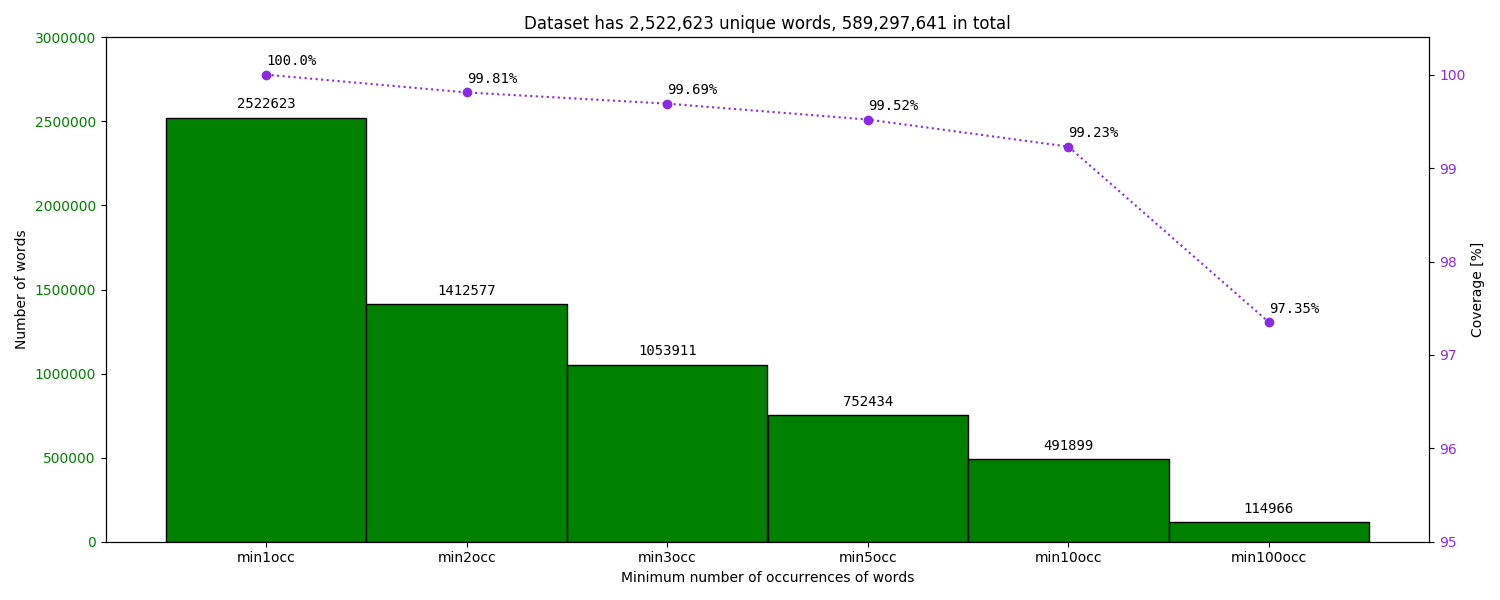
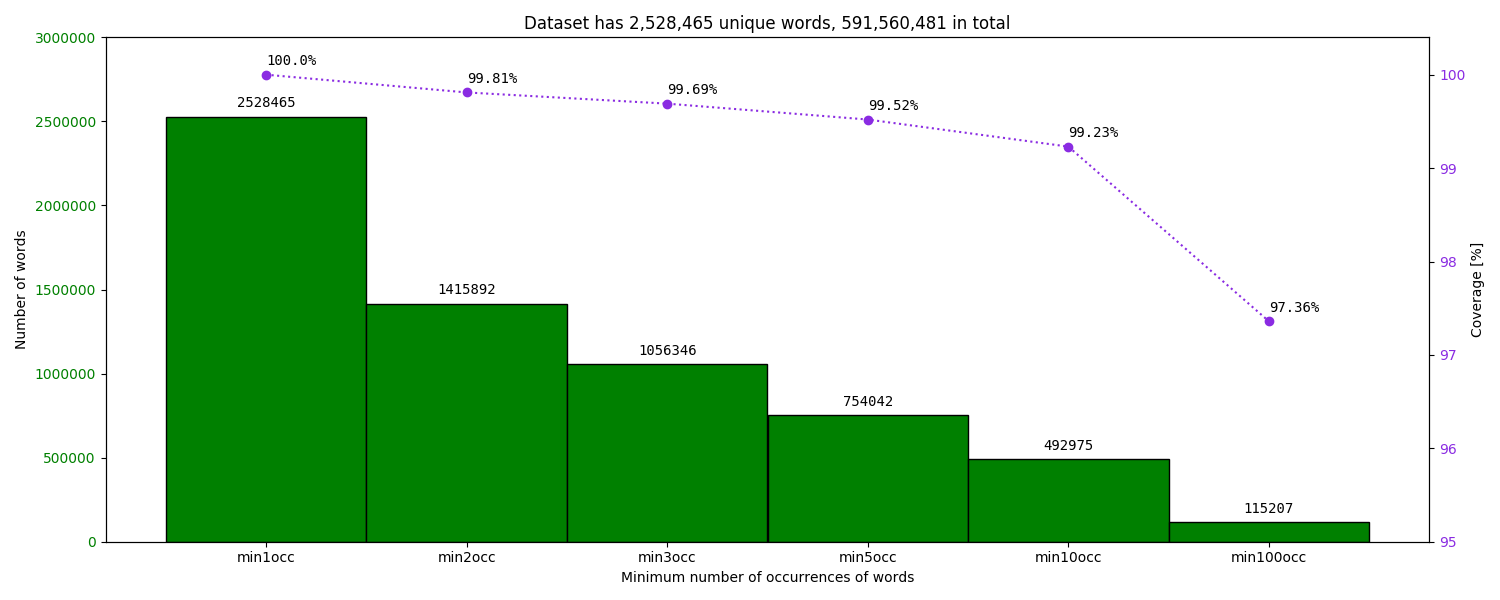
Update README
Make sure the entire workflow runs smoothly

diff --git a/README.md b/README.md
@@ -188,12 +188,12 @@ define_char_vocabulary:
 Output
 
 ```
-INFO [2018-04-10 11:50:58,460] [ccquery] Executing download action
-INFO [2018-04-10 11:50:58,461] [ccquery.preprocessing.wiki_extraction] Download wikipedia dump
-INFO [2018-04-10 12:22:37,021] [ccquery] Executing decompress action
-INFO [2018-04-10 12:22:37,022] [ccquery.preprocessing.wiki_extraction] Decompress wikipedia dump
-INFO [2018-04-10 12:33:29,653] [ccquery] Executing extract action
-INFO [2018-04-10 12:33:29,653] [ccquery.preprocessing.wiki_extraction] Extract plain text from Wikipedia by executing the command:
+INFO [2018-04-27 11:01:12,483] [ccquery] Executing download action
+INFO [2018-04-27 11:01:12,483] [ccquery.preprocessing.wiki_extraction] Download wikipedia dump
+INFO [2018-04-27 11:34:33,892] [ccquery] Executing decompress action
+INFO [2018-04-27 11:34:33,892] [ccquery.preprocessing.wiki_extraction] Decompress wikipedia dump
+INFO [2018-04-27 11:45:22,892] [ccquery] Executing extract action
+INFO [2018-04-27 11:45:22,892] [ccquery.preprocessing.wiki_extraction] Extract plain text from Wikipedia by executing the command:
     WikiExtractor.py \
         frwiki-latest-pages-articles.xml \
         --quiet \
@@ -204,24 +204,24 @@ INFO [2018-04-10 12:33:29,653] [ccquery.preprocessing.wiki_extraction] Extract p
         --filter_disambig_pages \
         --min_text_length 50 \
         -o - > frwiki-latest-pages-articles.jsonl
-INFO [2018-04-10 14:31:33,687] [ccquery] Executing preprocess action
-INFO [2018-04-10 14:31:33,687] [ccquery.preprocessing.wiki_extraction] Extract clean sentences
-INFO [2018-04-10 17:01:10,611] [ccquery] Executing plot_word_occurrences action
-INFO [2018-04-10 17:06:48,838] [ccquery.preprocessing.vocabulary] Read 2,522,623 words with 589,297,641 occurrences
-INFO [2018-04-10 17:06:48,838] [ccquery.preprocessing.vocabulary] Save histogram on word occurrences
-INFO [2018-04-10 17:06:51,791] [ccquery] Executing define_word_vocabulary action
-INFO [2018-04-10 17:06:54,006] [ccquery.preprocessing.vocabulary] Saved
-    500,000 words out of 2,522,623
-    (19.82% unique words, 99.24% coverage of word occurrences)
-INFO [2018-04-10 17:06:54,089] [ccquery.preprocessing.vocabulary] Save word counts in json file
-INFO [2018-04-10 17:06:56,272] [ccquery.preprocessing.vocabulary] Save words in text file
-INFO [2018-04-10 17:06:57,198] [ccquery] Executing plot_char_occurrences action
-INFO [2018-04-10 17:23:13,536] [ccquery.preprocessing.vocabulary] Read 641 chars with 3,400,942,936 occurrences
-INFO [2018-04-10 17:23:13,536] [ccquery.preprocessing.vocabulary] Save histogram on char occurrences
-INFO [2018-04-10 17:23:13,845] [ccquery] Executing define_char_vocabulary action
-INFO [2018-04-10 17:23:13,845] [ccquery.preprocessing.vocabulary] Save char counts in json file
-INFO [2018-04-10 17:23:13,847] [ccquery.preprocessing.vocabulary] Save chars in text file
-INFO [2018-04-10 17:23:13,848] [ccquery] Finished.
+INFO [2018-04-27 13:42:51,790] [ccquery] Executing preprocess action
+INFO [2018-04-27 13:42:51,790] [ccquery.preprocessing.wiki_extraction] Extract clean sentences
+INFO [2018-04-27 16:16:28,731] [ccquery] Executing plot_word_occurrences action
+INFO [2018-04-27 16:22:20,749] [ccquery.preprocessing.vocabulary] Read 2,528,465 words with 591,560,481 occurrences
+INFO [2018-04-27 16:22:20,749] [ccquery.preprocessing.vocabulary] Save histogram on word occurrences
+INFO [2018-04-27 16:22:23,707] [ccquery] Executing define_word_vocabulary action
+INFO [2018-04-27 16:22:34,045] [ccquery.preprocessing.vocabulary] Saved
+    500,000 words out of 2,528,465
+    (19.77% unique words, 99.24% coverage of word occurrences)
+INFO [2018-04-27 16:22:34,133] [ccquery.preprocessing.vocabulary] Save word counts in json file
+INFO [2018-04-27 16:22:36,301] [ccquery.preprocessing.vocabulary] Save words in text file
+INFO [2018-04-27 16:22:37,226] [ccquery] Executing plot_char_occurrences action
+INFO [2018-04-27 16:39:45,466] [ccquery.preprocessing.vocabulary] Read 642 chars with 3,413,985,452 occurrences
+INFO [2018-04-27 16:39:45,466] [ccquery.preprocessing.vocabulary] Save histogram on char occurrences
+INFO [2018-04-27 16:39:45,783] [ccquery] Executing define_char_vocabulary action
+INFO [2018-04-27 16:39:45,783] [ccquery.preprocessing.vocabulary] Save char counts in json file
+INFO [2018-04-27 16:39:45,785] [ccquery.preprocessing.vocabulary] Save chars in text file
+INFO [2018-04-27 16:39:45,786] [ccquery] Finished.
 ```
 
 The plot on the word occurrences  
@@ -258,13 +258,14 @@ Output
 Launch n-gram counting
     ngram-count \
         -order 3 \
-        -text frwiki-latest-pages-articles.txt \
         -unk -vocab frwiki-latest-pages-articles_voc-top500k-words.txt \
+        -text frwiki-latest-pages-articles.txt \
         -sort -write counts_order3_500kwords_frwiki-latest-pages-articles.txt \
         -debug 2
 
-29,642,700 sentences, 589,297,641 words, 4,486,608 OOVs
-Finished at 09:44:22, after 486 seconds
+29,751,572 sentences, 591,560,481 words, 4,507,154 OOVs
+
+Finished at 08:56:52, after 515 seconds
 
 Launch LM training
     make-big-lm \
@@ -281,16 +282,16 @@ using ModKneserNey for 3-grams
 warning: distributing 0.000334545 left-over probability mass over all 500002 words
 
 discarded       1 2-gram contexts containing pseudo-events
-discarded  453443 3-gram contexts containing pseudo-events
+discarded  453588 3-gram contexts containing pseudo-events
 
-pruned    3273196 2-grams
-pruned   90005564 3-grams
+pruned    3298081 2-grams
+pruned   90388561 3-grams
 
 writing    500003 1-grams
-writing  34918094 2-grams
-writing  64693601 3-grams
+writing  34985400 2-grams
+writing  64759795 3-grams
 
-Finished at 10:31:58, after 2856 seconds
+Finished at 09:45:28, after 2916 seconds
 
 Generated a model of 2.9G
 ```
@@ -308,19 +309,19 @@ Configuration
 * only uses the 'model' path configuration
 
 Output
-```bash
-INFO [2018-04-11 16:19:03,290] [ccquery] Load ARPA model
-INFO [2018-04-11 16:19:03,290] [ccquery.ngram.arpa_lm] Load ARPA model from
+```
+INFO [2018-05-14 10:06:54,736] [ccquery] Load ARPA model
+INFO [2018-05-14 10:06:54,737] [ccquery.ngram.arpa_lm] Load ARPA model from
     lm_order3_500kwords_modKN_prune1e-9_frwiki-latest-pages-articles.arpa
-INFO [2018-04-11 16:19:03,290] [ccquery.ngram.arpa_lm] Processing 1-grams
-INFO [2018-04-11 16:19:04,909] [ccquery.ngram.arpa_lm] Processing 2-grams
-INFO [2018-04-11 16:21:01,918] [ccquery.ngram.arpa_lm] Processing 3-grams
-INFO [2018-04-11 16:24:41,942] [ccquery.ngram.arpa_lm] Loaded a 3-gram LM with {1: 500003, 2: 34918094, 3: 64693601} counts
-INFO [2018-04-11 16:39:14,427] [ccquery.ngram.arpa_lm] Finished storing n-grams under trie structure
-INFO [2018-04-11 16:43:14,925] [ccquery] Build and save trie-based n-gram model
-INFO [2018-04-11 16:43:14,926] [ccquery.ngram.arpa_lm] Store trie-based n-grams under binary format in
+INFO [2018-05-14 10:06:54,737] [ccquery.ngram.arpa_lm] Processing 1-grams
+INFO [2018-05-14 10:06:56,478] [ccquery.ngram.arpa_lm] Processing 2-grams
+INFO [2018-05-14 10:08:53,070] [ccquery.ngram.arpa_lm] Processing 3-grams
+INFO [2018-05-14 10:12:35,282] [ccquery.ngram.arpa_lm] Loaded a 3-gram LM with {1: 500003, 2: 34985400, 3: 64759795} counts
+INFO [2018-05-14 10:25:30,647] [ccquery.ngram.arpa_lm] Finished storing n-grams under trie structure
+INFO [2018-05-14 10:29:43,979] [ccquery] Build and save trie-based n-gram model
+INFO [2018-05-14 10:29:43,980] [ccquery.ngram.arpa_lm] Store trie-based n-grams under binary format in
     lm_order3_500kwords_modKN_prune1e-9_frwiki-latest-pages-articles.bin
-INFO [2018-04-11 16:43:15,596] [ccquery] Generated a model of 867.9MB
+INFO [2018-05-14 10:29:44,726] [ccquery] Generated a model of 873.1MB
 ```
 
 ### Execute: set up the process for the 1st baseline
@@ -367,20 +368,20 @@ Note:
   with the vocabulary associated to the n-gram language model
 
 Output
-```bash
-INFO [2018-04-23 16:00:17,399] [ccquery] Load intermediate tools
-INFO [2018-04-23 16:00:23,037] [ccquery.spelling.b1correction] Loaded spacy NLP model
-INFO [2018-04-23 16:00:23,175] [ccquery.spelling.b1correction] Loaded hunspell checker
-INFO [2018-04-23 16:00:23,375] [ccquery.spelling.b1correction] Loaded n-gram language model
-INFO [2018-04-23 16:00:23,375] [ccquery] Launch correction
-INFO [2018-04-23 16:00:23,375] [ccquery] Evaluating the top 10 candidate corrections
-INFO [2018-04-23 16:00:37,313] [ccquery] Performance R@10=88.33, P@10=81.63, F1@10=84.85
-INFO [2018-04-23 16:00:37,313] [ccquery] Evaluating the top 5 candidate corrections
-INFO [2018-04-23 16:00:51,177] [ccquery] Performance R@5=88.33, P@5=81.97, F1@5=85.03
-INFO [2018-04-23 16:00:51,177] [ccquery] Evaluating the top 1 candidate corrections
-INFO [2018-04-23 16:01:05,057] [ccquery] Performance R@1=86.0, P@1=86.0, F1@1=86.0
-INFO [2018-04-23 16:01:05,057] [ccquery] Debugging...
-INFO [2018-04-23 16:01:18,918] [ccquery] Display top-1 corrections
+```
+INFO [2018-05-14 10:47:46,732] [ccquery] Load intermediate tools
+INFO [2018-05-14 10:47:58,509] [ccquery.spelling.b1correction] Loaded spacy NLP model
+INFO [2018-05-14 10:47:59,096] [ccquery.spelling.b1correction] Loaded hunspell checker
+INFO [2018-05-14 10:47:59,634] [ccquery.spelling.b1correction] Loaded n-gram language model
+INFO [2018-05-14 10:47:59,634] [ccquery] Launch correction
+INFO [2018-05-14 10:47:59,634] [ccquery] Evaluating the top 10 candidate corrections
+INFO [2018-05-14 10:48:19,955] [ccquery] Performance R@10=88.67, P@10=81.93, F1@10=85.17
+INFO [2018-05-14 10:48:19,956] [ccquery] Evaluating the top 5 candidate corrections
+INFO [2018-05-14 10:48:40,253] [ccquery] Performance R@5=88.67, P@5=82.27, F1@5=85.35
+INFO [2018-05-14 10:48:40,254] [ccquery] Evaluating the top 1 candidate corrections
+INFO [2018-05-14 10:49:00,630] [ccquery] Performance R@1=86.33, P@1=86.33, F1@1=86.33
+INFO [2018-05-14 10:49:00,630] [ccquery] Debugging...
+INFO [2018-05-14 10:49:20,996] [ccquery] Display top-1 corrections
 FROM           comment rehoindre une force TO  comment rejoindre une force
 FROM            meilleur voeu en portugais TO  meilleur voeu en portugais
 FROM                    serrue en applique TO  serre en applique
